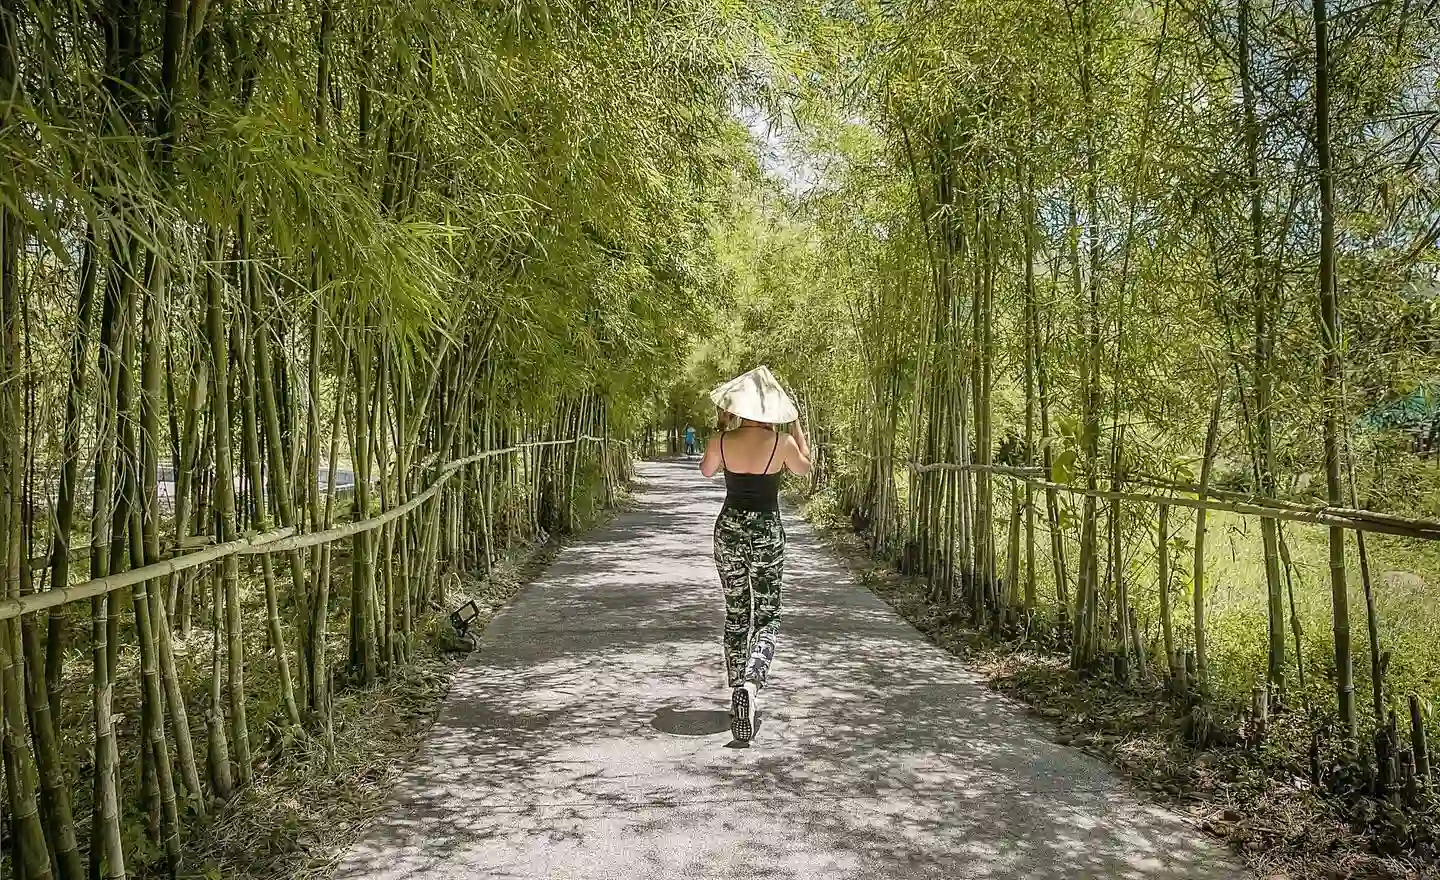
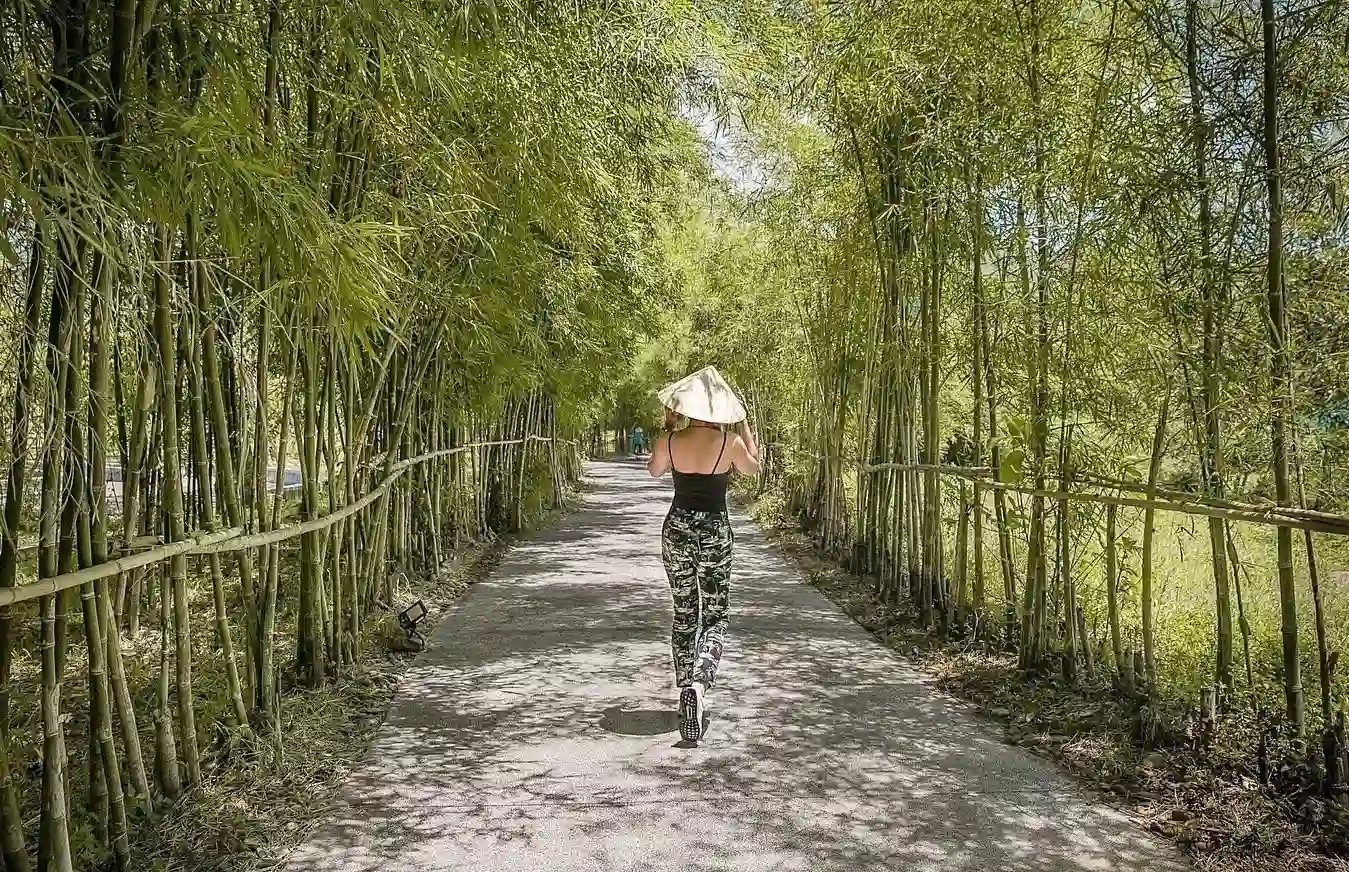
add img

diff --git a/src/components/Gallery.js b/src/components/Gallery.js
@@ -45,7 +45,14 @@ const Gallery = (props) => (
 
     <FadeInSection>
       <div className="row">
-        <div className="col-12 custom-col">
+        <div className="col-4 custom-col">
+          <GalleryPic
+            picSrc={require("../assets/images/gallery/halongbay.webp")}
+            picDesc="Ha Long Bay - Quang Ninh, Vietnam"
+            picStyle={{ borderRadius: "0" }}
+          />
+        </div>
+        <div className="col-8 custom-col">
           <GalleryPic
             picSrc={require("../assets/images/gallery/bamboo.webp")}
             picDesc="Alba Wellness Valley - Hue, Vietnam"
